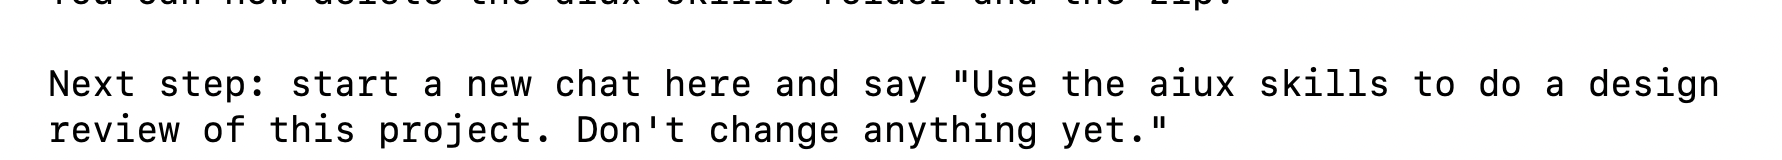
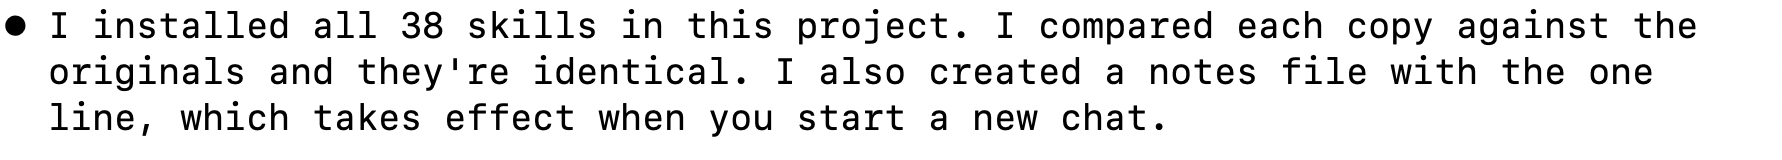
Course lesson 4 matches the one-zip install, with the test screenshots; walkthrough pages link to the course; fix two screenshot crops

Changed region(s): [[0.0309, 0.3438, 0.9877, 0.9375], [0.0, 0.0625, 0.9568, 0.2812], [0.0309, 0.0, 0.7099, 0.0312]]

diff --git a/src/data/guides.ts b/src/data/guides.ts
@@ -9380,39 +9380,27 @@ Audience: Early-stage VCs in the design-tools space.`,
         sections: [
           {
             type: 'intro',
-            content: 'Your dashboard offers two ways to download the skills you\'ve saved: a zip you unpack, or a single markdown file you hand to Claude Code directly. If you only want one skill, there\'s a one-line install for that too.',
+            content: 'The quickest route is one zip with every skill in it. You put its folder in your project and Claude Code installs the skills itself. It takes about two minutes, and it asks before it changes anything outside the skills folder.',
             icon: 'download',
           },
           {
             type: 'heading',
             level: 'h3',
-            content: 'Get there from the site',
+            content: 'Get the zip',
           },
           {
             type: 'steps',
             steps: [
               {
                 number: 1,
-                title: 'Browse /patterns or /skills',
-                content: 'Find the patterns your product needs. Not sure which ones? Run the free audit first.',
+                title: 'Ask for the skills on the site',
+                content: 'Open the free download, linked at the end of this lesson. Enter your email and choose Claude Code.',
                 icon: 'monitor',
               },
               {
                 number: 2,
-                title: 'Save the ones you want with the bookmark icon',
-                content: 'Each save adds that pattern\'s skill to your dashboard.',
-                icon: 'check',
-              },
-              {
-                number: 3,
-                title: 'Open the Saved bar and choose Review',
-                content: 'This shows every skill you\'ve saved before you download anything.',
-                icon: 'monitor',
-              },
-              {
-                number: 4,
-                title: 'Pick a format and download',
-                content: 'Folder (.zip), the one-file installer, or a single skill, covered next.',
+                title: 'aiux-skills.zip downloads',
+                content: 'We email you a copy too. Open the zip and you get an aiux-skills folder with START HERE and a skills folder.',
                 icon: 'download',
               },
             ],
@@ -9420,28 +9408,22 @@ Audience: Early-stage VCs in the design-tools space.`,
           {
             type: 'heading',
             level: 'h3',
-            content: 'Option A: the zip',
+            content: 'Install it in Claude Code',
           },
           {
             type: 'steps',
             steps: [
               {
                 number: 1,
-                title: 'Choose Folder (.zip) on your dashboard',
-                content: 'Downloads aiux-skills.zip. Open it and you get a folder with START HERE and one skill per saved pattern.',
-                icon: 'download',
+                title: 'Put the aiux-skills folder in your project',
+                content: 'Your project is the folder you open in Claude Code. No project yet? Make an empty folder and open that.',
+                icon: 'code',
               },
               {
                 number: 2,
-                title: 'Drag the folder into your project',
-                content: 'Then tell Claude Code the line below. It copies the skills into `.claude/skills/`, a folder Finder hides, so you never have to look for it.',
+                title: 'Tell Claude Code to install them',
+                content: 'Paste the line below. It copies the skills into a hidden folder in your project, so you never have to look for it.',
                 icon: 'terminal',
-              },
-              {
-                number: 3,
-                title: 'Start a new chat, then commit',
-                content: 'Skills load when a chat starts. They are plain text, so they diff and review like any other file in the repo.',
-                icon: 'check',
               },
             ],
           },
@@ -9452,41 +9434,49 @@ Audience: Early-stage VCs in the design-tools space.`,
             code: 'Read START HERE in aiux-skills and install the skills.',
           },
           {
-            type: 'heading',
-            level: 'h3',
-            content: 'Option B: the one-file installer',
+            type: 'text',
+            content: 'It asks before it adds one line to your project notes, so it remembers to use the skills. Say yes. In our test it then confirmed all 38 were in.',
+          },
+          {
+            type: 'image',
+            src: '/images/skills/walkthrough/code-2-notes-question.png',
+            alt: 'Claude Code asking whether to add one line to the project notes, with Yes, add it recommended',
+            label: 'From our test: the one question it asks before touching your notes.',
+          },
+          {
+            type: 'image',
+            src: '/images/skills/walkthrough/code-2-summary.png',
+            alt: 'Claude Code saying it installed all 38 skills and created the notes file',
+            label: 'And the confirmation once the skills are in.',
           },
           {
             type: 'steps',
             steps: [
               {
-                number: 1,
-                title: 'Download aiux-skills.md',
-                content: 'One markdown file (the same plain-text format skills themselves use) with every saved skill fenced off inside it, plus install instructions at the top.',
-                icon: 'download',
-              },
-              {
-                number: 2,
-                title: 'Drop it in your repo, or paste it straight into chat',
-                content: 'Either works: Claude Code reads the file from disk or from your prompt.',
-                icon: 'code',
-              },
-              {
                 number: 3,
-                title: 'Tell Claude Code to install it',
-                content: '"install the skills in aiux-skills.md" is enough. Claude creates each file at the path named in its heading.',
-                icon: 'terminal',
+                title: 'Start a new chat',
+                content: 'Skills and the notes line are read when a chat starts. Then you can delete the aiux-skills folder and the zip.',
+                icon: 'check',
               },
             ],
           },
           {
             type: 'heading',
             level: 'h3',
-            content: 'Want everything at once?',
+            content: 'Prefer your own set?',
           },
           {
             type: 'text',
-            content: 'The whole library is also published as an open GitHub repo, so one command installs all the skills through the skills CLI. It works with Claude Code, Cursor, GitHub Copilot, and most other coding agents.',
+            content: 'Save just the skills you want with the bookmark icon on any pattern or on the skills page. Open the Saved bar, choose Review, then download them as a zip or as one markdown file. Install either the same way: put it in your project and ask Claude Code to install the skills in it.',
+          },
+          {
+            type: 'heading',
+            level: 'h3',
+            content: 'Other ways in',
+          },
+          {
+            type: 'text',
+            content: 'The whole library is also an open GitHub repo, so one command installs every skill through the skills CLI. It works with Claude Code, Cursor, GitHub Copilot and most other coding agents.',
           },
           {
             type: 'code',
@@ -9495,13 +9485,8 @@ Audience: Early-stage VCs in the design-tools space.`,
             code: 'npx skills add imsaif/aiux-skills',
           },
           {
-            type: 'heading',
-            level: 'h3',
-            content: 'Just one skill?',
-          },
-          {
             type: 'text',
-            content: 'You don\'t need the dashboard for a single pattern. Every skill is also served on its own, so this one command installs it directly, no download step at all.',
+            content: 'Every skill is also served on its own, so one command installs a single pattern with no download step.',
           },
           {
             type: 'code',
@@ -9512,24 +9497,41 @@ Audience: Early-stage VCs in the design-tools space.`,
           {
             type: 'callout',
             calloutType: 'warning',
-            title: 'Location matters',
-            content: 'Claude Code only auto-loads skills from `.claude/skills/<name>/SKILL.md`. If you unzip or install somewhere else, nothing triggers. Run `ls .claude/skills/` to confirm the folders landed where they should, and start a fresh Claude Code session afterward so it picks up the new skills.',
+            title: 'Skill not loading?',
+            content: 'Claude Code only loads skills from `.claude/skills/<name>/SKILL.md`, and only when a chat starts. Start a new chat, then ask "what skills are available?" to see what it can find. If an older aiux copy is installed for all your projects, Claude Code may use that one instead. START HERE checks for this and offers to remove it.',
             icon: 'warning',
           },
           {
-            type: 'callout',
-            calloutType: 'warning',
-            title: 'Skill not loading?',
-            content: 'Check the exact path: it must be `.claude/skills/<name>/SKILL.md`, not a subfolder or a renamed file. Start a fresh Claude Code session, since skills load at the start of a session, not mid-conversation. Then ask Claude directly: "what skills are available?" Its answer confirms exactly what it can see.',
-            icon: 'warning',
+            type: 'further-reading',
+            title: 'Get the skills and the full walkthrough',
+            links: [
+              {
+                title: 'Get the skills, free',
+                url: '/?skills=1',
+                source: 'aiuxdesign.guide',
+                description: 'Enter your email and choose where you will use them. The zip downloads straight away.',
+              },
+              {
+                title: 'Claude Code walkthrough',
+                url: '/skills/start/claude-code',
+                source: 'aiuxdesign.guide',
+                description: 'These steps with every screenshot, plus a first design review.',
+              },
+              {
+                title: 'Claude app walkthrough',
+                url: '/skills/start/claude-app',
+                source: 'aiuxdesign.guide',
+                description: 'Upload the zip as a plugin and try it on a screenshot.',
+              },
+            ],
           },
           {
             type: 'completion',
             title: 'A skill pack is installed',
             items: [
-              'Chose a path: zip, one-file installer, or a single-skill curl command',
-              'Confirmed the skills sit under `.claude/skills/<name>/SKILL.md`',
-              'Started a new session so Claude Code picks them up',
+              'Got the zip and put its folder in your project',
+              'Let Claude Code install the skills and add the notes line',
+              'Started a new chat so it picks them up',
             ],
             message: 'Next: what actually makes a skill fire, without you asking for it by name.',
           },

diff --git a/src/components/skills/PackFigures.tsx b/src/components/skills/PackFigures.tsx
@@ -48,7 +48,7 @@ const SHOT_DIR = '/images/skills/walkthrough/';
 
 export const SHOTS = {
   plugins: { src: `${SHOT_DIR}app-1-plugins.png`, width: 1360, height: 220, alt: 'The Plugins page in Claude, with an Add button at the top right' },
-  addMenu: { src: `${SHOT_DIR}app-2-add-menu.png`, width: 1360, height: 420, alt: 'The Add menu open, with Upload plugin at the top' },
+  addMenu: { src: `${SHOT_DIR}app-2-add-menu.png`, width: 1360, height: 250, alt: 'The Add menu open, with Upload plugin at the top' },
   added: { src: `${SHOT_DIR}app-2-added.png`, width: 1360, height: 660, alt: 'The Aiux skills plugin page showing Added' },
   ask: { src: `${SHOT_DIR}app-3-ask.png`, width: 925, height: 350, alt: 'A Claude chat with a screenshot attached and the review prompt typed' },
   answer: { src: `${SHOT_DIR}app-3-findings.png`, width: 520, height: 300, alt: "The start of Claude's answer, listing ranked gaps with the patterns behind each" },

diff --git a/src/app/skills/start/[target]/page.tsx b/src/app/skills/start/[target]/page.tsx
@@ -63,6 +63,12 @@ export default async function SkillPackStartPage({ params }: Props) {
             </Link>
             <h1 className="type-h1 text-balance text-text-primary">{guide.pageTitle}</h1>
             <p className="type-body mt-snug text-text-secondary">{guide.pageIntro}</p>
+            <p className="mt-tight text-sm text-text-secondary">
+              Part of the course{' '}
+              <Link href="/guides/ai-ux-skills-guide" prefetch={false} className={linkClass}>
+                Using AI UX Skills
+              </Link>
+            </p>
             <nav
               aria-label="Where you will use the skills"
               className="mt-roomy flex flex-wrap gap-x-loose border-b border-border-primary"
